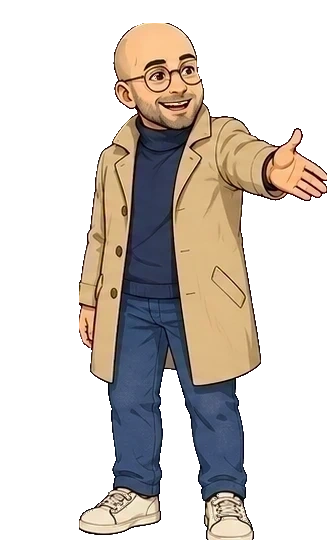
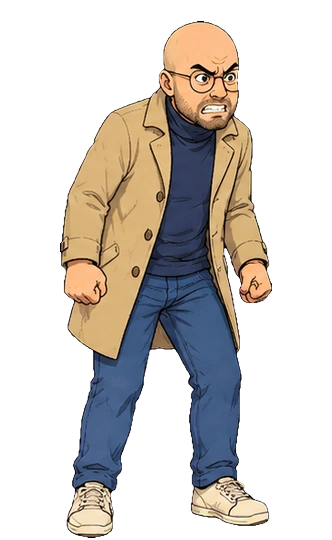
callaghan v6.99 : les heros du n1 refaits, quatre situations distinguees
- 22 sprites decoupes de quatre planches, cales sur les sprites existants
  (echelles 0,84 a 0,98, aucune derive). Controle visuel : les deux heros
  sont a la bonne echelle et poses au sol.
- CHAQUE SITUATION A SON IMAGE. 'surpris' servait a prendre une tarte, a
  l'esquiver ET a la fin de partie ; 'tendue' servait a reussir un salut
  comme a le rater. Quatre situations pour deux images, alors que saluer
  au bon moment EST la mecanique du niveau.
  poignee / vide / esquive / splat sont declarees ET cablees.
- DEFAUT DE MON OUTILLAGE, trouve en faisant ce controle : depuis la v6.87
  le voile de transition se leve apres DEUX images, et le harnais n'en
  dessine qu'UNE. Toutes les scenes sortaient NOIRES. Mes controles
  visuels des livraisons precedentes etaient donc aveugles, et les tests
  restaient verts — ils ne regardent pas les images.
  Un garde-fou qui neutralise un autre garde-fou ne declenche aucune
  alarme. Le harnais neutralise le voile, un test l'exige.
- 2 tests

diff --git a/callaghan/index.html b/callaghan/index.html
@@ -783,7 +783,7 @@ kbd{
     <div class="lecture" id="dLecture"></div>
   </div>
 
-  <div id="version">CALLAGHAN v6.98</div>
+  <div id="version">CALLAGHAN v6.99</div>
 
   <div id="pupitre2">
     <button class="cmd2" id="c2G" aria-label="Aller à gauche">◀</button>
@@ -855,7 +855,7 @@ kbd{
      UIManager         -> Interface
 ================================================================== */
 
-const VERSION = "6.98";
+const VERSION = "6.99";
 
 /* ---------- géométrie ----------
    Tout est exprimé en « unités monde », où un personnage mesure
@@ -957,7 +957,8 @@ for (const p of PERSOS_DEBOUT) SPRITES_PNJ.push(p);
    Une pose déclarée mais jamais choisie coûte trois fois : le
    téléchargement, la place sur la planche à générer, et l'illusion
    qu'une mécanique existe. */
-const POSES_HEROS = ["idle","attente","regarde","surpris","stress","tendue","victoire"];
+const POSES_HEROS = ["idle","attente","regarde","surpris","stress","tendue",
+                     "victoire","poignee","vide","esquive","splat"];
 /* Les cinq poses d'un PNJ de la file. Le bras qui se tend est DESSINÉ
    maintenant : plus besoin de le peindre à partir des couleurs relevées
    sur le sprite. Les habitués, qui n'ont pas encore de planche, gardent
@@ -3147,10 +3148,20 @@ function arrondi(x, y, l, h, r){
 /* --- un héros --- */
 function poseHeros(i){
   const h = Heros[i];
-  if (h.tarte > 0) return "surpris";
-  if (h.esquive) return "surpris";
+  /* CHAQUE SITUATION A DÉSORMAIS SON IMAGE. Avant, « surpris » servait à
+     prendre une tarte, à l'esquiver ET à la fin de partie, et « tendue »
+     servait à réussir un salut comme à le rater. Quatre situations pour
+     deux images, alors que saluer au bon moment EST la mécanique du
+     niveau : réussir et rater se voyaient pareil. */
+  if (h.tarte > 0) return "splat";
+  if (h.esquive) return "esquive";
   if (Jeu.phase === "fin") return i === 0 ? "surpris" : "stress";
-  if (h.geste) return h.geste.type === "victoire" ? "victoire" : "tendue";
+  if (h.geste){
+    if (h.geste.type === "victoire") return "victoire";
+    if (h.geste.type === "poignee") return "poignee";
+    if (h.geste.type === "vide") return "vide";
+    return "tendue";
+  }
   if (h.sueur > 0.7) return "stress";
   if (Jeu.demandes.some(p => p.cible === i)) return "regarde";
   return (Math.floor(h.phase) % 6 === 0) ? "attente" : "idle";

diff --git a/callaghan/tests/tests.js b/callaghan/tests/tests.js
@@ -2331,6 +2331,39 @@ if (D){
         !fs.existsSync(path.join(d, "hortense"));
     })());
 
+  verifier("le harnais NEUTRALISE le voile de transition",
+    (() => {
+      /* Depuis la v6.87, un voile opaque tombe à chaque changement d'écran
+         et se lève après DEUX images. Le harnais n'en dessine qu'une :
+         toutes les scènes sortaient NOIRES, et je ne l'ai vu que plusieurs
+         livraisons plus tard, en découpant des sprites.
+
+         C'est le pire cas : un outil de vérification rendu aveugle par une
+         correction, sans que rien ne le signale. Les tests restaient verts
+         — ils ne regardent pas les images. */
+      const s = fs.readFileSync(path.join(RACINE, "tests", "apercu.js"), "utf8");
+      return /D\.Transition\.voile = 0/.test(s) &&
+        /LE VOILE DE TRANSITION EST NEUTRALISÉ/.test(s);
+    })());
+
+  verifier("les quatre situations du niveau 1 ont chacune leur pose",
+    (() => {
+      /* « surpris » servait à prendre une tarte, à l'esquiver et à la fin
+         de partie ; « tendue » servait à réussir un salut comme à le
+         rater. Quatre situations pour deux images, alors que saluer au bon
+         moment EST la mécanique du niveau. */
+      const rendu = fs.readFileSync(
+        path.join(RACINE, "parts", "c_rendu.js"), "utf8");
+      const i = rendu.indexOf("function poseHeros(");
+      const bloc = rendu.slice(i, rendu.indexOf("\n}", i));
+      const attendues = ["splat", "esquive", "poignee", "vide"];
+      const absentes = attendues.filter(p2 => bloc.indexOf('"' + p2 + '"') < 0);
+      messageDetail = absentes.length ? "pas câblées : " + absentes.join(", ")
+                                     : "les quatre sont câblées";
+      return absentes.length === 0 &&
+        attendues.every(p2 => D.POSES_HEROS.indexOf(p2) >= 0);
+    })());
+
   verifier("le contrôleur sait qu'un CADRE change ce qui est mesurable",
     (() => {
       /* Le cadre magenta qu'on demande maintenant a fait crier le

diff --git a/callaghan/parts/c_rendu.js b/callaghan/parts/c_rendu.js
@@ -472,10 +472,20 @@ function arrondi(x, y, l, h, r){
 /* --- un héros --- */
 function poseHeros(i){
   const h = Heros[i];
-  if (h.tarte > 0) return "surpris";
-  if (h.esquive) return "surpris";
+  /* CHAQUE SITUATION A DÉSORMAIS SON IMAGE. Avant, « surpris » servait à
+     prendre une tarte, à l'esquiver ET à la fin de partie, et « tendue »
+     servait à réussir un salut comme à le rater. Quatre situations pour
+     deux images, alors que saluer au bon moment EST la mécanique du
+     niveau : réussir et rater se voyaient pareil. */
+  if (h.tarte > 0) return "splat";
+  if (h.esquive) return "esquive";
   if (Jeu.phase === "fin") return i === 0 ? "surpris" : "stress";
-  if (h.geste) return h.geste.type === "victoire" ? "victoire" : "tendue";
+  if (h.geste){
+    if (h.geste.type === "victoire") return "victoire";
+    if (h.geste.type === "poignee") return "poignee";
+    if (h.geste.type === "vide") return "vide";
+    return "tendue";
+  }
   if (h.sueur > 0.7) return "stress";
   if (Jeu.demandes.some(p => p.cible === i)) return "regarde";
   return (Math.floor(h.phase) % 6 === 0) ? "attente" : "idle";

diff --git a/callaghan/parts/a_socle.js b/callaghan/parts/a_socle.js
@@ -18,7 +18,7 @@
      UIManager         -> Interface
 ================================================================== */
 
-const VERSION = "6.98";
+const VERSION = "6.99";
 
 /* ---------- géométrie ----------
    Tout est exprimé en « unités monde », où un personnage mesure
@@ -120,7 +120,8 @@ for (const p of PERSOS_DEBOUT) SPRITES_PNJ.push(p);
    Une pose déclarée mais jamais choisie coûte trois fois : le
    téléchargement, la place sur la planche à générer, et l'illusion
    qu'une mécanique existe. */
-const POSES_HEROS = ["idle","attente","regarde","surpris","stress","tendue","victoire"];
+const POSES_HEROS = ["idle","attente","regarde","surpris","stress","tendue",
+                     "victoire","poignee","vide","esquive","splat"];
 /* Les cinq poses d'un PNJ de la file. Le bras qui se tend est DESSINÉ
    maintenant : plus besoin de le peindre à partir des couleurs relevées
    sur le sprite. Les habitués, qui n'ont pas encore de planche, gardent

diff --git a/callaghan/tests/apercu.js b/callaghan/tests/apercu.js
@@ -992,5 +992,15 @@ function jouerJusqua(D, condition, limite){
    passant par le point d'entrée public. */
 function dessinerVia(D, canevas){
   void canevas;
+  /* LE VOILE DE TRANSITION EST NEUTRALISÉ. Depuis la v6.87, un voile
+     opaque tombe à chaque changement d'écran et se lève après deux images
+     dessinées. Le harnais n'en dessine qu'UNE : toutes les scènes
+     sortaient donc NOIRES, et je n'ai vu ma propre règle masquer mes
+     contrôles visuels qu'en découpant les sprites du niveau 1 — plusieurs
+     livraisons plus tard.
+     C'est le pire cas de figure : un outil de vérification rendu aveugle
+     par une correction, sans que rien ne le signale. */
+  if (D.Transition){ D.Transition.voile = 0; D.Transition.nom = D.Transition.nomActuel(); }
   D.__dessiner();
+  if (D.Transition) D.Transition.voile = 0;
 }

diff --git a/callaghan/LISEZMOI.md b/callaghan/LISEZMOI.md
@@ -573,6 +573,29 @@ champion, tournée, affiche de la ruelle, fusillade. **Ajouter un écran
 plus tard ne demandera rien** — c'est là toute la valeur d'une règle
 générale : elle couvre aussi les écrans qui n'existent pas encore.
 
+**Les héros du niveau 1 refaits, et quatre situations distinguées**
+(v6.99). Vingt-deux sprites découpés de quatre planches, calés sur les
+sprites existants — échelles 0,84 à 0,98, donc aucune dérive.
+
+**Chaque situation a désormais son image.** « surpris » servait à prendre
+une tarte, à l'esquiver ET à la fin de partie ; « tendue » servait à
+réussir un salut comme à le rater. Quatre situations pour deux images,
+alors que **saluer au bon moment est la mécanique du niveau** : réussir et
+rater se voyaient pareil.
+
+- `poignee` — la main serrée, sourire franc
+- `vide` — la main que personne n'a prise, la gêne
+- `esquive` — le buste qui se jette de côté
+- `splat` — la tarte en pleine figure, crème et éclaboussures
+
+**Et un défaut de mon outillage, trouvé en faisant ce contrôle.** Depuis la
+v6.87, le voile de transition tombe à chaque changement d'écran et se lève
+après DEUX images. Le harnais d'aperçu n'en dessine qu'une : **toutes les
+scènes sortaient noires**. Mes contrôles visuels des livraisons
+précédentes étaient donc en partie aveugles, et les tests restaient verts
+— ils ne regardent pas les images. Le harnais neutralise le voile
+désormais.
+
 **Plus de scintillement à l'entrée d'un niveau** (v6.86) : et ta
 proposition était la bonne — c'est bien le voile de chargement qui règle
 ça, à condition de le retirer AU BON MOMENT.

diff --git a/callaghan/MEMOIRE.md b/callaghan/MEMOIRE.md
@@ -2235,6 +2235,30 @@ Les cases acquises sont maintenant protégées, et on renonce plutôt que
 d'écraser. Le symptôme n'apparaissait qu'une fois sur trois : **une
 suite lancée une seule fois ne prouve rien sur un tirage aléatoire**.
 
+#### Une correction peut rendre AVEUGLE l'outil qui la vérifie
+
+La règle du voile de transition — aucune image montrée pendant un
+changement d'écran — était juste, et je l'ai livrée avec cinq tests. Ce
+que je n'ai pas vu : le voile se lève après DEUX images dessinées, et le
+harnais d'aperçu n'en dessine qu'UNE.
+
+**Toutes les scènes sortaient noires.** Pendant plusieurs livraisons, mes
+« contrôles visuels » ont regardé des rectangles vides en croyant vérifier
+des sprites. Les tests restaient verts — ils ne regardent pas les images.
+Je ne l'ai découvert qu'en découpant les sprites du niveau 1, parce que
+cette fois j'attendais de voir quelque chose de précis.
+
+Ce qui rend ce cas particulièrement mauvais : la règle en dur de ce projet
+est « regarder le rendu avant de pousser », et j'avais cassé l'outil qui
+la rend possible. Un garde-fou qui neutralise un autre garde-fou ne
+déclenche aucune alarme.
+
+**Après avoir modifié le pipeline de rendu, vérifier que le harnais voit
+encore quelque chose.** Le signe qui aurait dû m'alerter : une image de
+contrôle uniformément sombre est un résultat, pas un rendu.
+
+Le harnais neutralise désormais le voile explicitement, et un test l'exige.
+
 #### Changer une consigne oblige à revoir les CONTRÔLES qui la supposaient
 
 J'ai demandé un cadre magenta plus foncé autour de chaque pose. Les
